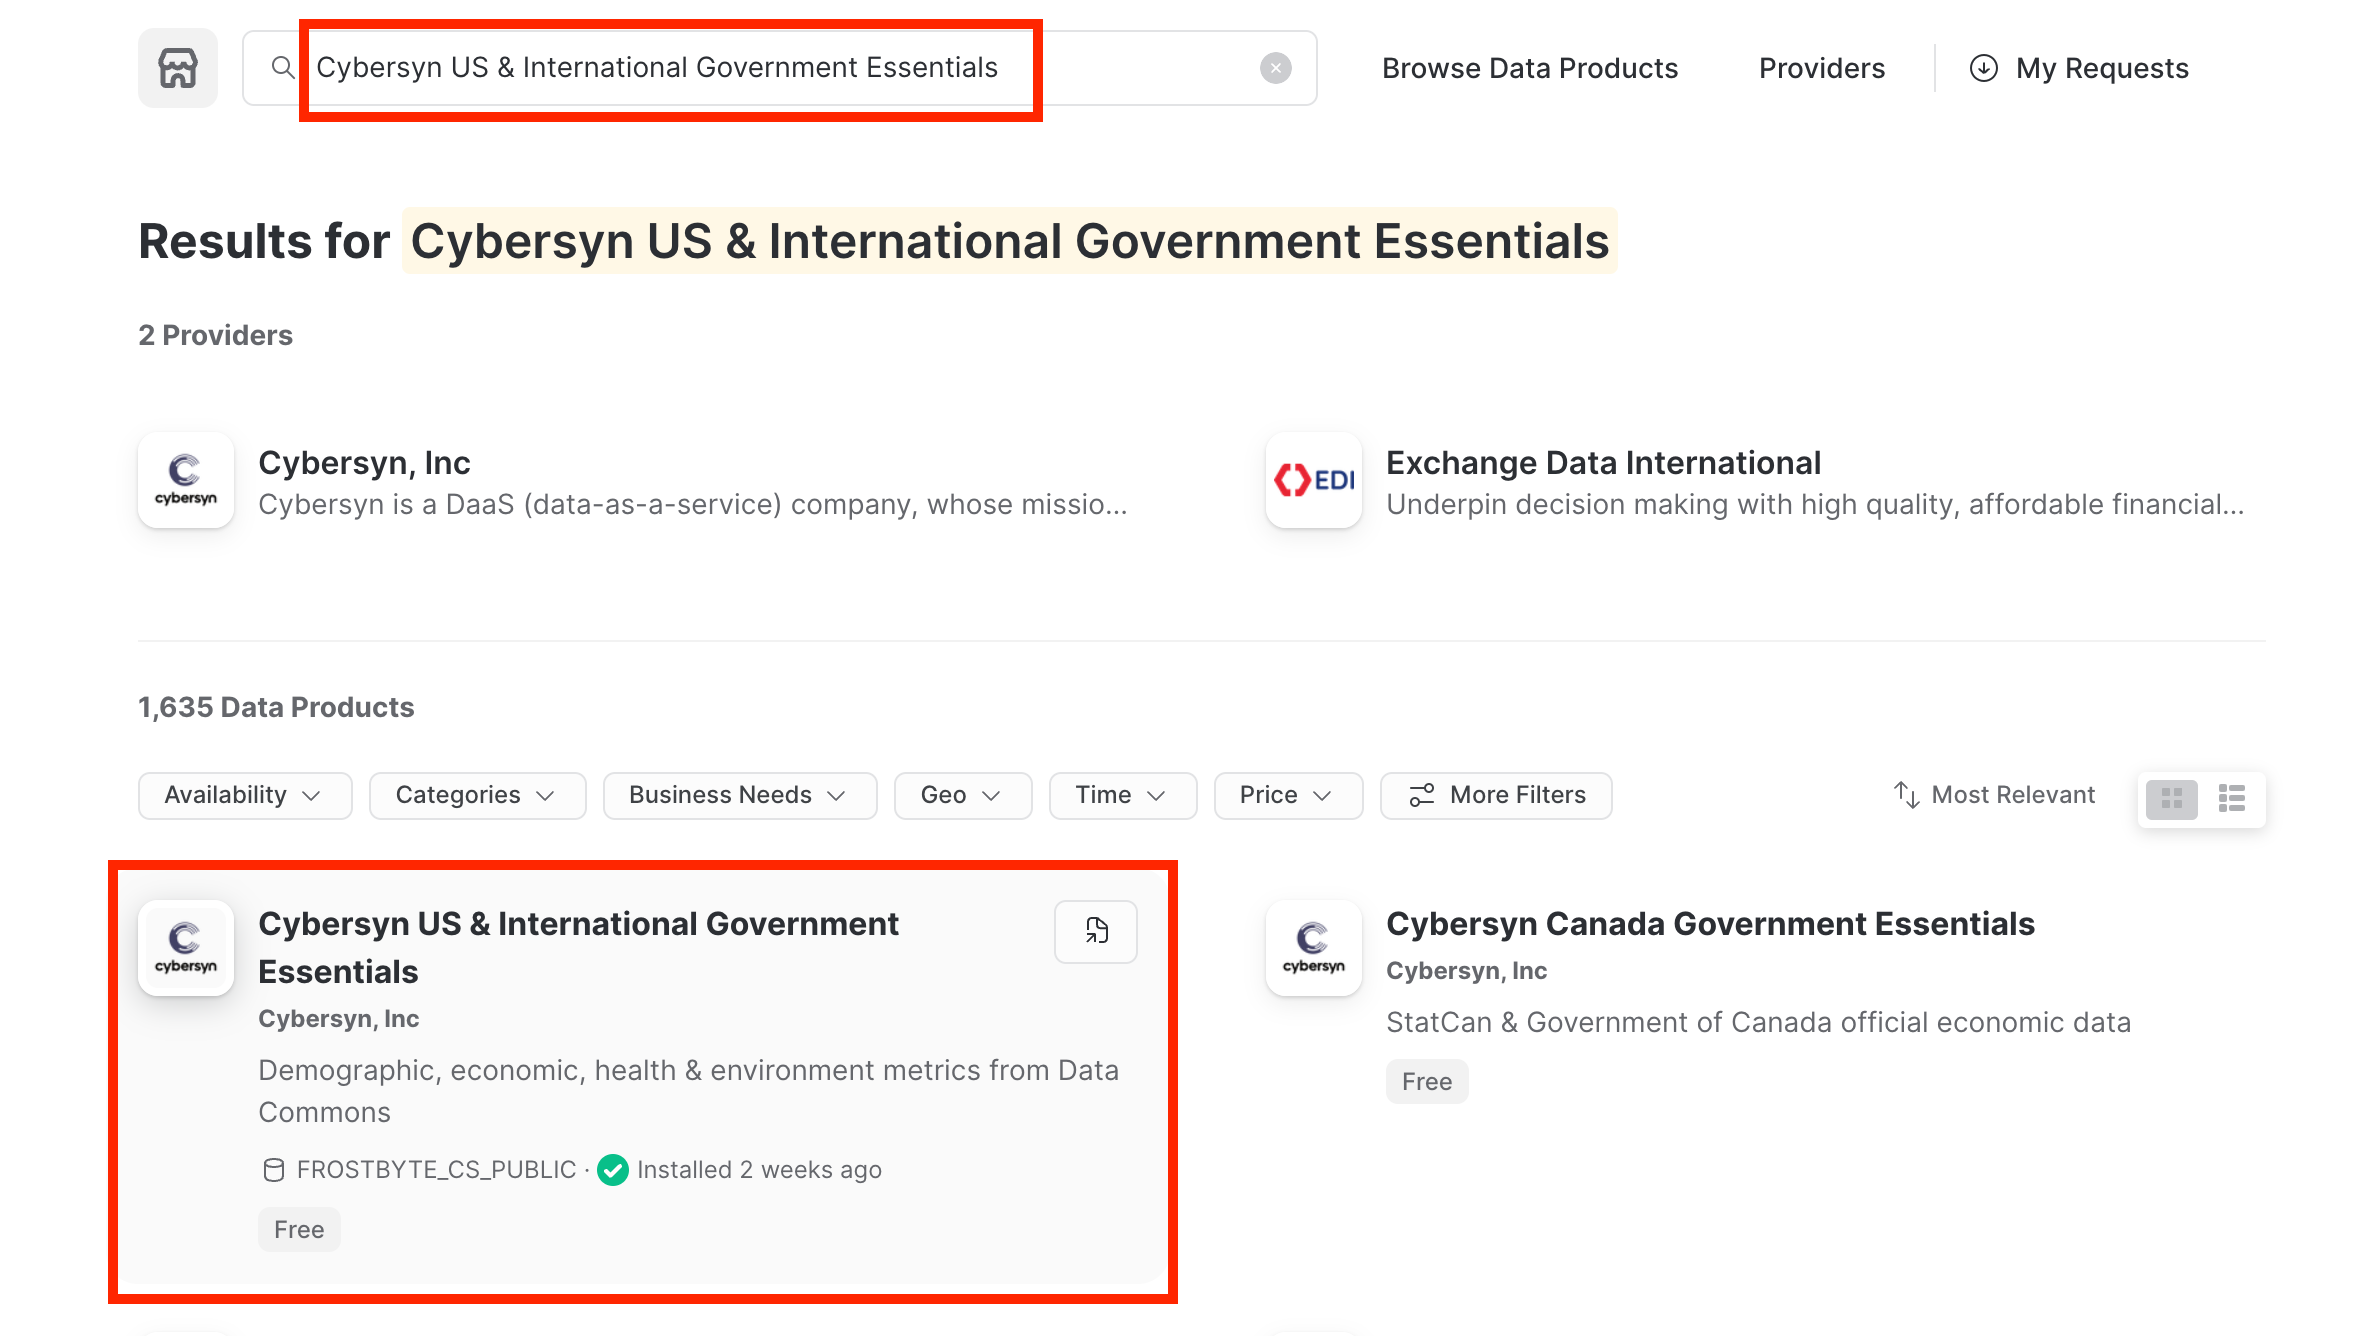
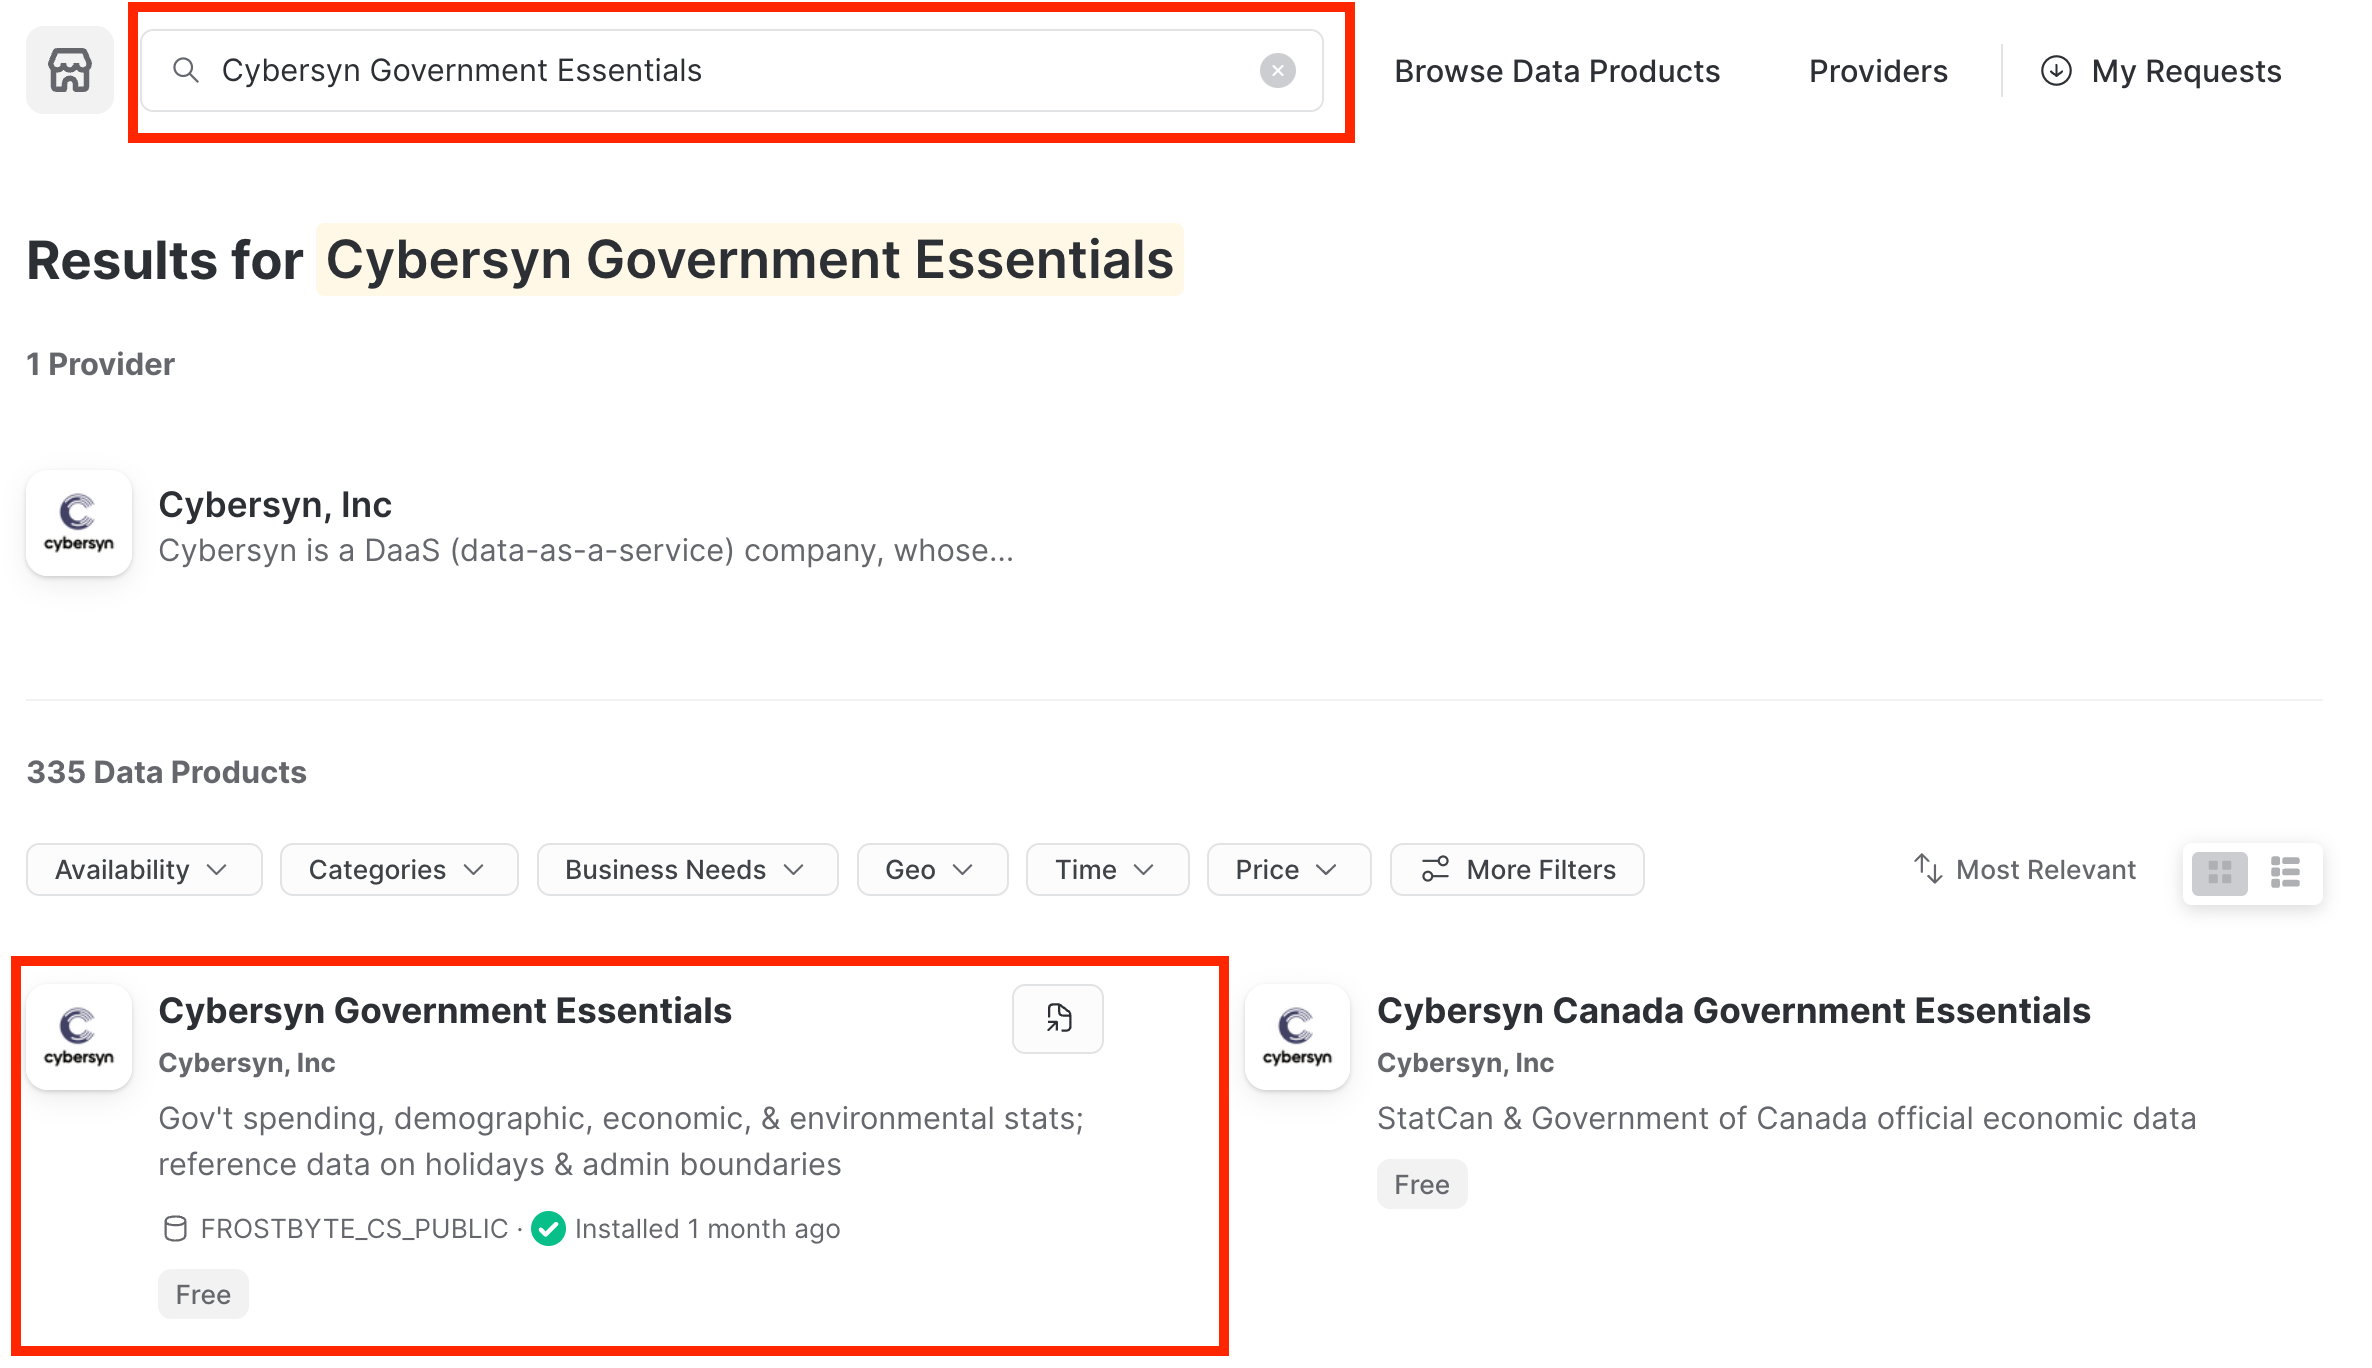
updates on quickstart images and content

diff --git a/site/sfguides/src/mlpf_forecasting_ad/mlpf_forecasting_ad.md b/site/sfguides/src/mlpf_forecasting_ad/mlpf_forecasting_ad.md
@@ -54,12 +54,12 @@ You will use [Snowsight](https://docs.snowflake.com/en/user-guide/ui-snowsight),
 The [Snowflake Marketplace](https://other-docs.snowflake.com/en/collaboration/collaboration-marketplace-about) provides mutiple listings for data you may use for analytical purposes. We will be leveraging the open data aggregated by Cybersyn for this quickstart, which contains a database of holidays to enrich our sales data. 
 
 - Log into your Snowflake account as the ACCOUNTADMIN or similar role
-- Follow the steps below to access the Cybersyn US & International Government Essentials listing in your account. 
+- Follow the steps below to access the Cybersyn Government Essentials listing in your account. 
   - Click on 'Marketplace' on the left hand banner:
   
     <img src = "assets/marketplace.png">
   
-  - In the search bar, search for 'Cybersyn US & International Government Essentials'
+  - In the search bar, search for 'Cybersyn Government Essentials'
     
   - Click on the first listing, with the same title: 
 
@@ -111,7 +111,7 @@ CREATE OR REPLACE TABLE quickstart.mlpf.tasty_byte_sales(
 	PRIMARY_CITY VARCHAR(16777216),
 	MENU_ITEM_NAME VARCHAR(16777216),
 	TOTAL_SOLD NUMBER(17,0)
-)
+);
 
 -- Ingest data from s3 into our table
 COPY INTO quickstart.mlpf.tasty_byte_sales 
@@ -227,6 +227,8 @@ ORDER BY
 <img src = "assets/lobster_cheese.png">
 
 There we have it! We just created our first set of predictions for the next 10 days worth of demand, which can be used to inform how much inventory of raw ingredients we may need. As shown from the above visualization, there seems to also be a weekly trend for the items sold, which the model was also able to pick up on. 
+
+**Note:** You may notice that your chart has included the null being represented as 0's. Make sure to select the 'none' aggregation for each of columns as shown on the right hand side of the image above to reproduce the image. 
 
 ### Step 4: Understanding Forecasting Output & Configuration Options
 
@@ -541,13 +543,16 @@ warehouse = test
 after AD_VANCOUVER_TRAINING_TASK
 as call send_anomaly_report();
 
--- Execute the tasks to run and send email: 
+-- Steps to immediately execute the task:  
+ALTER TASK SEND_ANOMALY_REPORT_TASK RESUME;
+ALTER TASK AD_VANCOUVER_TRAINING_TASK RESUME;
 EXECUTE TASK AD_VANCOUVER_TRAINING_TASK;
 ```
 Some considerations to keep in mind from the above code: 
 1. **Use the freshest data available**: In the code above, we used `vancouver_anomaly_analysis_set` to retrain the model, which, because the data is static, would contain the same data as the original model. In a production setting, you may accordingly adjust the input table/view to have the most updated dataset to retrain the model.
 2. **Sending emails**: This requires you to set up an integration, and specify who the recipients of the email should be. When completed appropriately, you'll recieve an email from `no-reply@snowflake.net`, as seen below. 
 3. **Formatting results**: We've made use of a snowpark stored procedure, to take advantage of the functions that pandas has to neatly present the resultset into an email. For futher details and options, refer to this [medium post](https://medium.com/snowflake/hey-snowflake-send-me-an-email-243741a0fe3) by Felipe Hoffa.
+4. **Executing the Tasks**: We have set this task to run the first of every month - if you would like to run it immediately, you'll have to change the state of the task to `RESUME` as shown in the last three lines of code above, before executing the parent task `AD_VANCOUVER_TRAINING_TASK`. Note that we have orchestrated the task to send the email to the user *after* the model has been retrained. After executing, you may expect to see an email similar to the one below within a few minutes.
 
 <img src = "assets/email_report.png">
 
